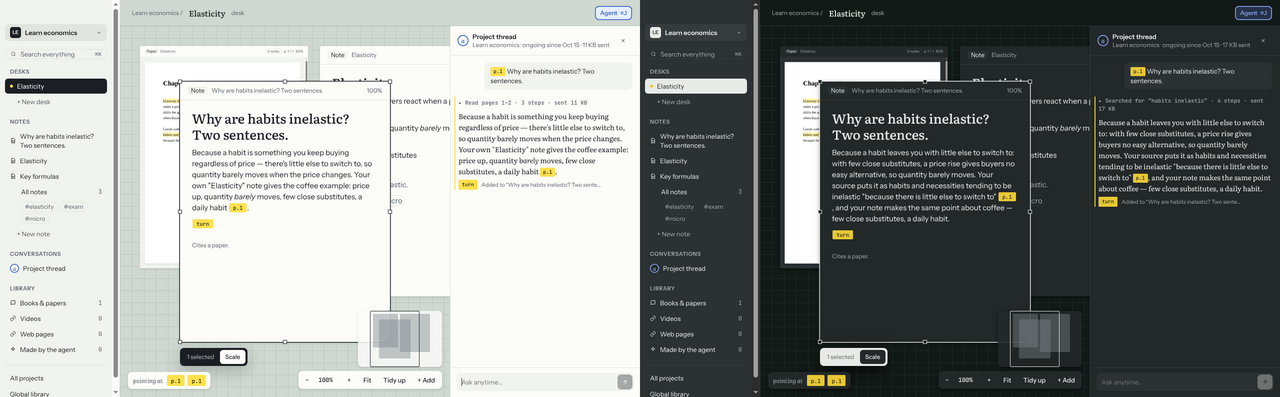
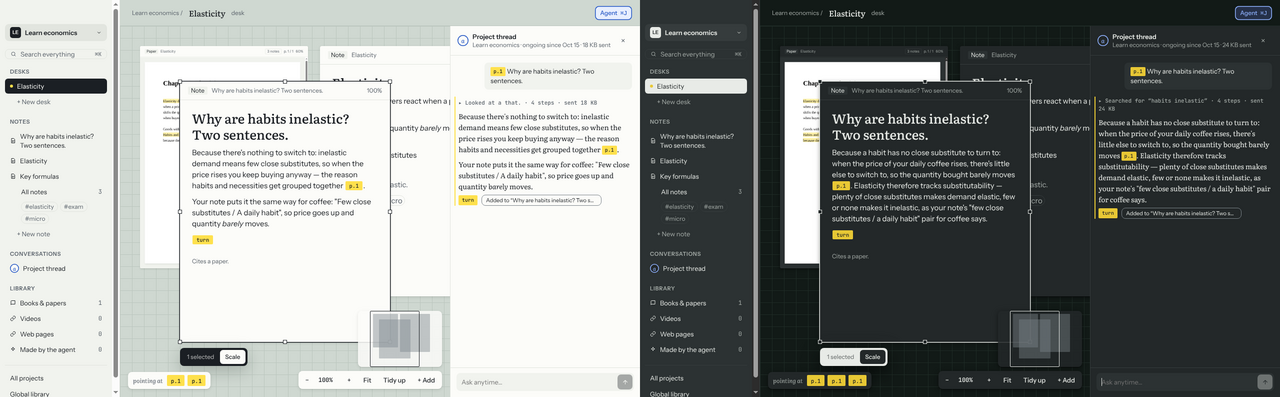
Add to note is an outline button, as the Margin agent panel asks
Claude-Session: https://claude.ai/code/session_01GH2ZZkUTER3THXdBqDjHGG

diff --git a/apps/desktop/src/renderer/shell.css b/apps/desktop/src/renderer/shell.css
@@ -1996,19 +1996,23 @@ kbd {
   cursor: grab;
 }
 
+/* Add to note: an outline button (Margin AgentPanel). */
 .turn-note {
   max-width: 240px;
+  height: 22px;
   overflow: hidden;
-  padding: 0;
+  padding: 0 8px;
+  border: 1px solid var(--graphite);
+  border-radius: var(--radius-control);
   font: var(--text-caption);
   font-size: 11px;
-  color: var(--ink-muted);
+  color: var(--ink);
   text-overflow: ellipsis;
   white-space: nowrap;
 }
 
 .turn-note:hover {
-  color: var(--ink);
+  background: var(--paper-2);
 }
 
 .turn-that:focus-visible,
